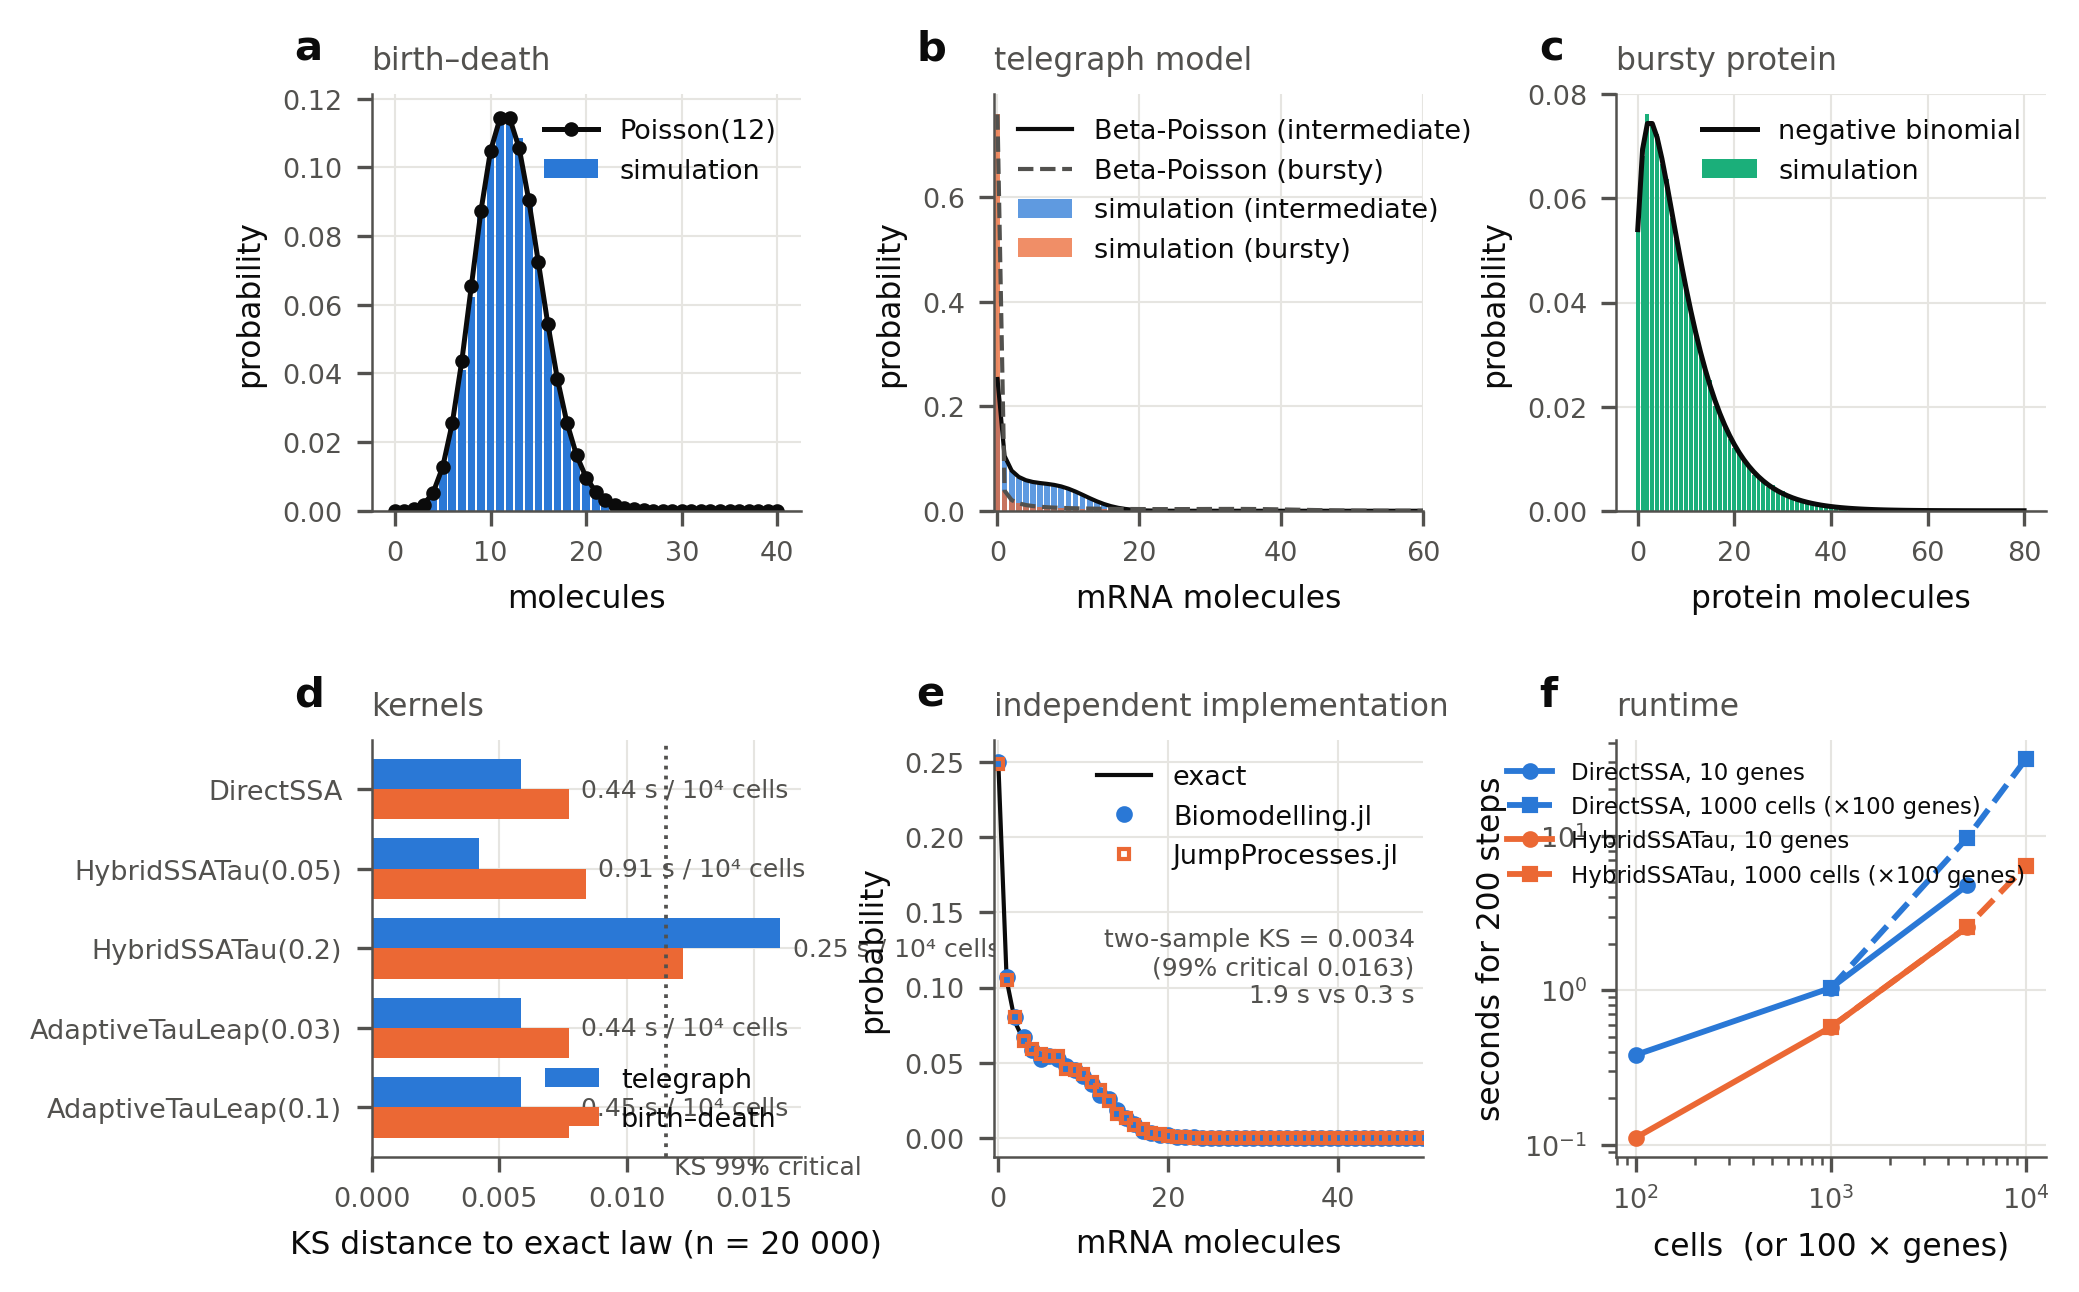
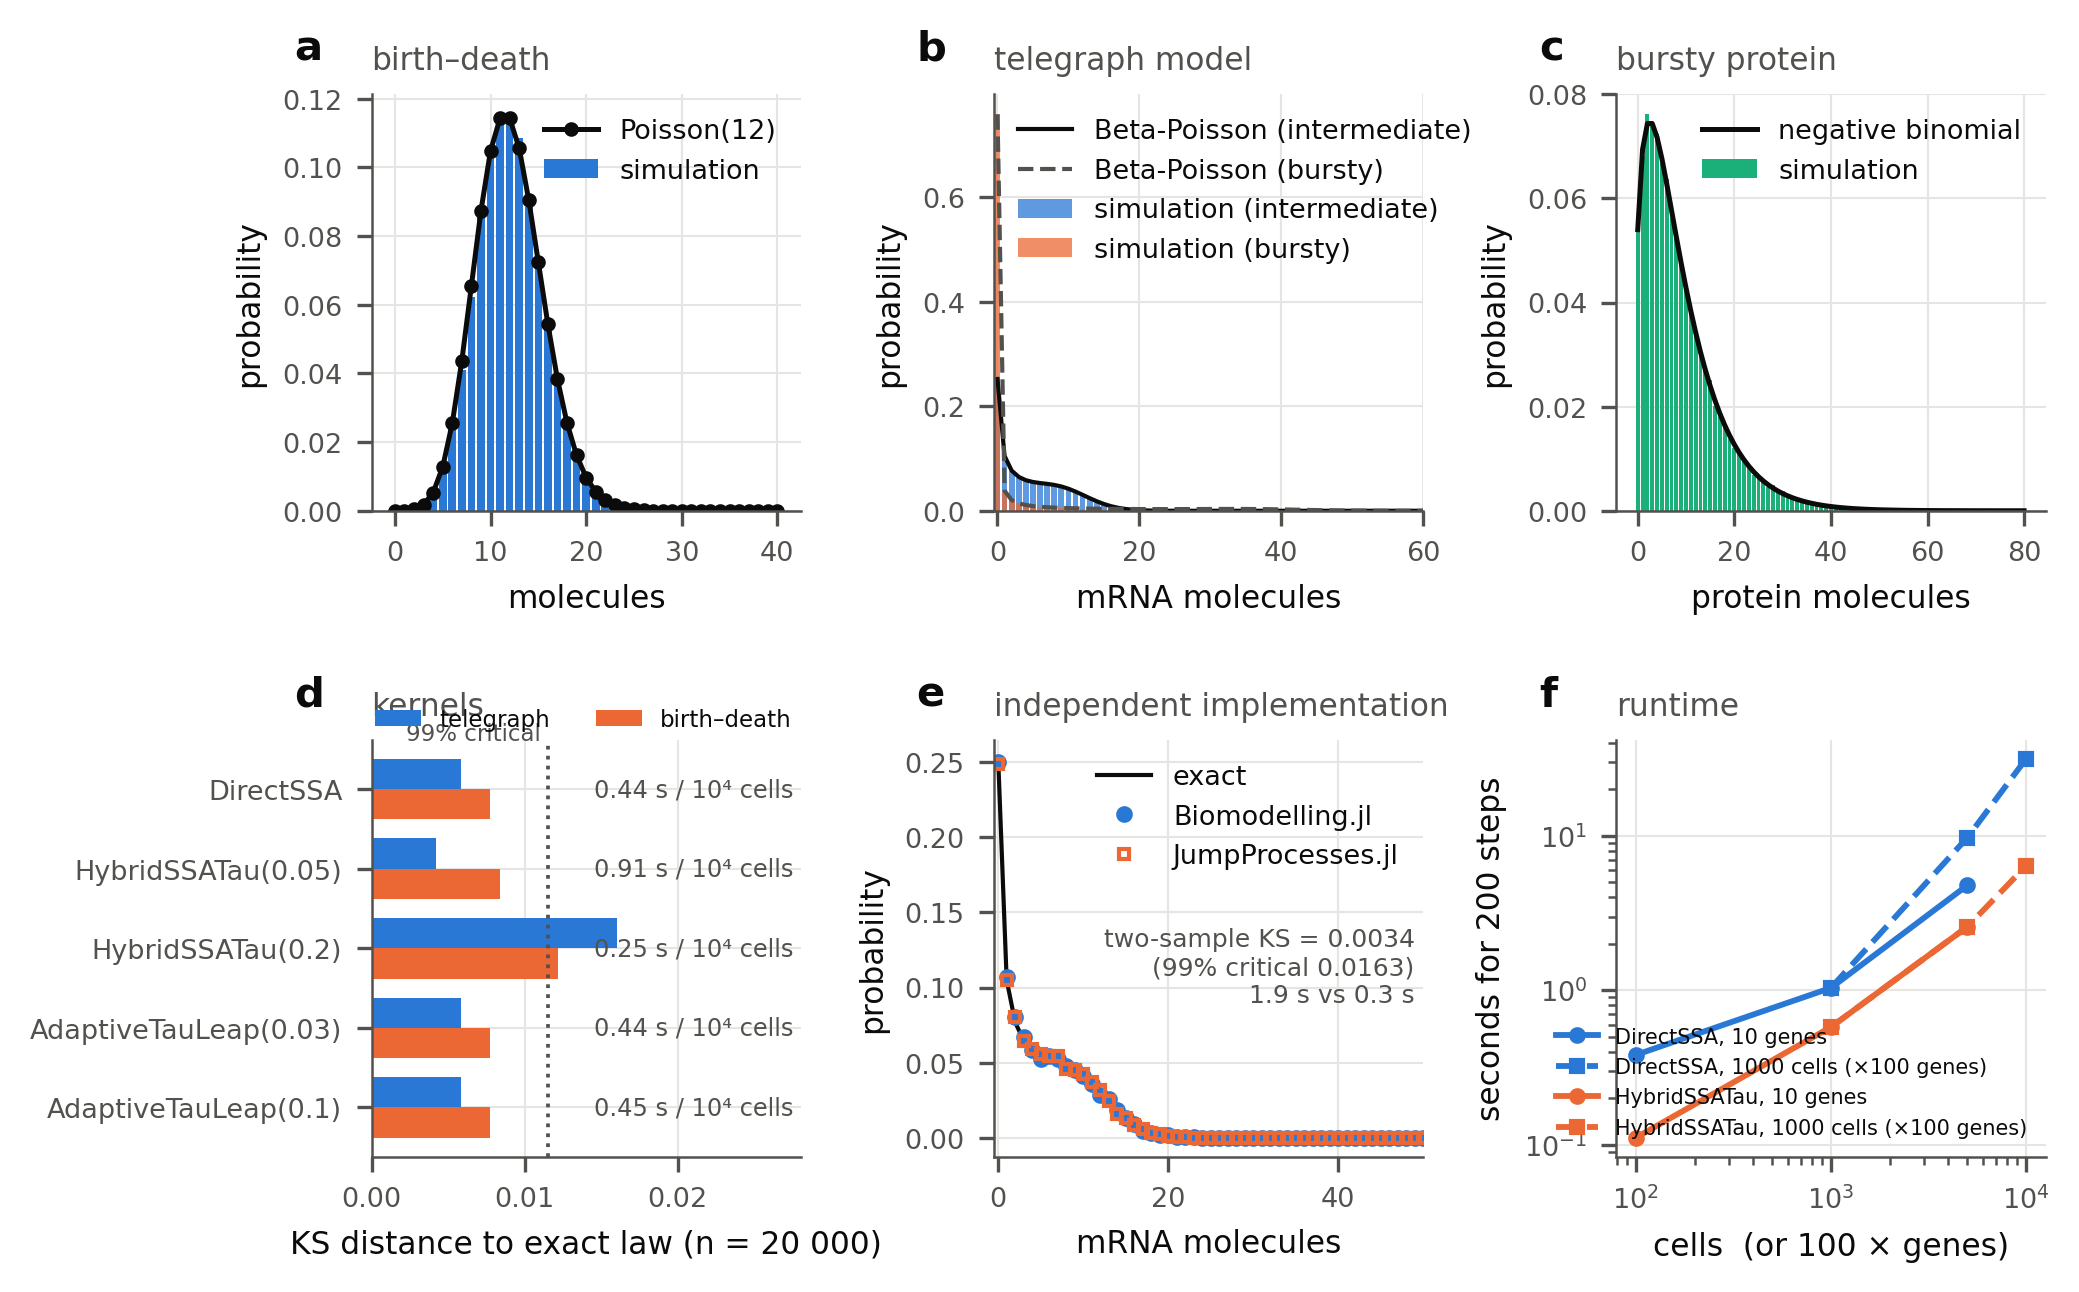
Paper: Figure 2 legend and annotation layout, Figure 6a text, changelog entry for the paper directory
Claude-Session: https://claude.ai/code/session_01PjfG7i2deAXT3znmpkGkmY

diff --git a/paper/plot_all.py b/paper/plot_all.py
@@ -63,10 +63,11 @@ def fig2():
         y = np.arange(len(d)); h = 0.38
         ax.barh(y - h/2, d.ks_telegraph, height=h, color=C[0], label="telegraph")
         ax.barh(y + h/2, d.ks_birthdeath, height=h, color=C[1], label="birth–death")
-        crit = 1.63 / math.sqrt(20000)
-        ax.axvline(crit, color=INK2, ls=":", lw=0.9); ax.text(crit, len(d) - 0.4, " KS 99% critical", color=INK2, fontsize=6, va="top")
-        ax.set_yticks(y); ax.set_yticklabels(d.kernel); ax.invert_yaxis(); ax.set_xlabel("KS distance to exact law (n = 20 000)"); ax.legend(loc="lower right"); label(ax, "d", "kernels")
-        for i, r in d.iterrows(): ax.text(max(r.ks_telegraph, r.ks_birthdeath) + 0.0005, i, f"{r.sec_per_1e4_telegraph:.2f} s / 10⁴ cells", va="center", fontsize=6, color=INK2)
+        crit = 1.63 / math.sqrt(20000); xmax = max(d.ks_telegraph.max(), d.ks_birthdeath.max(), crit)
+        ax.axvline(crit, color=INK2, ls=":", lw=0.9); ax.text(crit, -0.55, "99% critical ", color=INK2, fontsize=5.5, ha="right", va="bottom")
+        ax.set_xlim(0, xmax * 1.75); ax.set_yticks(y); ax.set_yticklabels(d.kernel); ax.invert_yaxis(); ax.set_xlabel("KS distance to exact law (n = 20 000)")
+        ax.legend(loc="lower right", bbox_to_anchor=(1.0, 1.0), ncol=2, fontsize=5.5, borderaxespad=0); label(ax, "d", "kernels")
+        for i, r in d.iterrows(): ax.text(xmax * 1.72, i, f"{r.sec_per_1e4_telegraph:.2f} s / 10⁴ cells", va="center", ha="right", fontsize=5.8, color=INK2)
     @panel
     def e(ax):
         d = load("fig2e_crosscheck.csv"); s = kv("fig2e_crosscheck_stats.csv")
@@ -84,7 +85,7 @@ def fig2():
             ax.plot(g10.cells, g10.seconds, marker="o", ms=3, color=C[i], label=f"{k}, 10 genes")
             g1000 = g[g.cells == 1000].sort_values("genes")
             ax.plot(g1000.genes * 100, g1000.seconds, marker="s", ms=3, ls="--", color=C[i], label=f"{k}, 1000 cells (×100 genes)")
-        ax.set_xscale("log"); ax.set_yscale("log"); ax.set_xlabel("cells  (or 100 × genes)"); ax.set_ylabel("seconds for 200 steps"); ax.legend(fontsize=5.5); label(ax, "f", "runtime")
+        ax.set_xscale("log"); ax.set_yscale("log"); ax.set_xlabel("cells  (or 100 × genes)"); ax.set_ylabel("seconds for 200 steps"); ax.legend(fontsize=5, loc="lower right"); label(ax, "f", "runtime")
     for fn, pos in zip((a, b, c, d, e, f), range(6)):
         fn(fig.add_subplot(gs[pos // 3, pos % 3]))
     save(fig, "fig2_engine")

diff --git a/paper/manuscript/02_results.template.md b/paper/manuscript/02_results.template.md
@@ -71,4 +71,4 @@ Because every cell's clone, lineage and true state are known, the framework supp
 
 ## The forward model supports inference and quantifies the bias of ignoring division
 
-On a snapshot of 2 000 non-dividing cells, ABC-SMC with log-uniform priors concentrates on the true telegraph parameters and agrees with the exact maximum-likelihood estimate (Figure 6a; posterior medians {{abc_a}} for truth (0.3, 0.6, 20)). On a snapshot of a growing and dividing population with volume-scaled transcription and mid-cycle replication, the naive telegraph fit is biased ({{naive_b}}) because volume and copy number inflate counts and their dispersion, whereas ABC with the population simulator as forward model recovers the truth ({{abc_b}}; Figure 6b). Drug parameters are also identifiable from population data: from a kill curve and the concordance of sister fates, the death rate and the protection threshold are recovered with posterior medians {{abc_c}} for truth (0.5, 150) (Figure 6c), and posterior predictive kill curves simulated at the posterior median envelope the observed one (Figure 6d).
+On a snapshot of 2 000 non-dividing cells, ABC-SMC with log-uniform priors over three decades and the Wasserstein distance between simulated and observed counts [@bernton2019] concentrates on the true telegraph parameters and agrees with the exact maximum-likelihood estimate (Figure 6a; posterior medians {{abc_a}} for truth (0.3, 0.6, 20)), with the broadest posterior on k_off, the parameter that a single snapshot constrains least. On a snapshot of a growing and dividing population with volume-scaled transcription and mid-cycle replication, the naive telegraph fit is biased ({{naive_b}}) because volume and copy number inflate counts and their dispersion, whereas ABC with the population simulator as forward model recovers the truth ({{abc_b}}; Figure 6b). Drug parameters are also identifiable from population data: from a kill curve and the concordance of sister fates, the death rate and the protection threshold are recovered with posterior medians {{abc_c}} for truth (0.5, 150) (Figure 6c), and posterior predictive kill curves simulated at the posterior median envelope the observed one (Figure 6d).

diff --git a/CHANGELOG.md b/CHANGELOG.md
@@ -8,6 +8,8 @@ generators. See `docs/plan/v2_implementation_and_paper_plan.md` for the design
 and `docs/src/migration.md` for the migration guide.
 
 ### Added
+- `paper/`: manuscript sources, figure scripts (`paper/run_all.jl`, `paper/plot_all.py`), Python benchmark
+  scripts and the built PDF/DOCX of the accompanying bioRxiv manuscript.
 - `ReactionModel` with `MassAction`, `Hill` and `Custom` kinetics, named
   parameters, volume scaling rules and promoter groups.
 - Kernels `DirectSSA`, `TauLeap`, `HybridSSATau`, `AdaptiveTauLeap` sharing a
